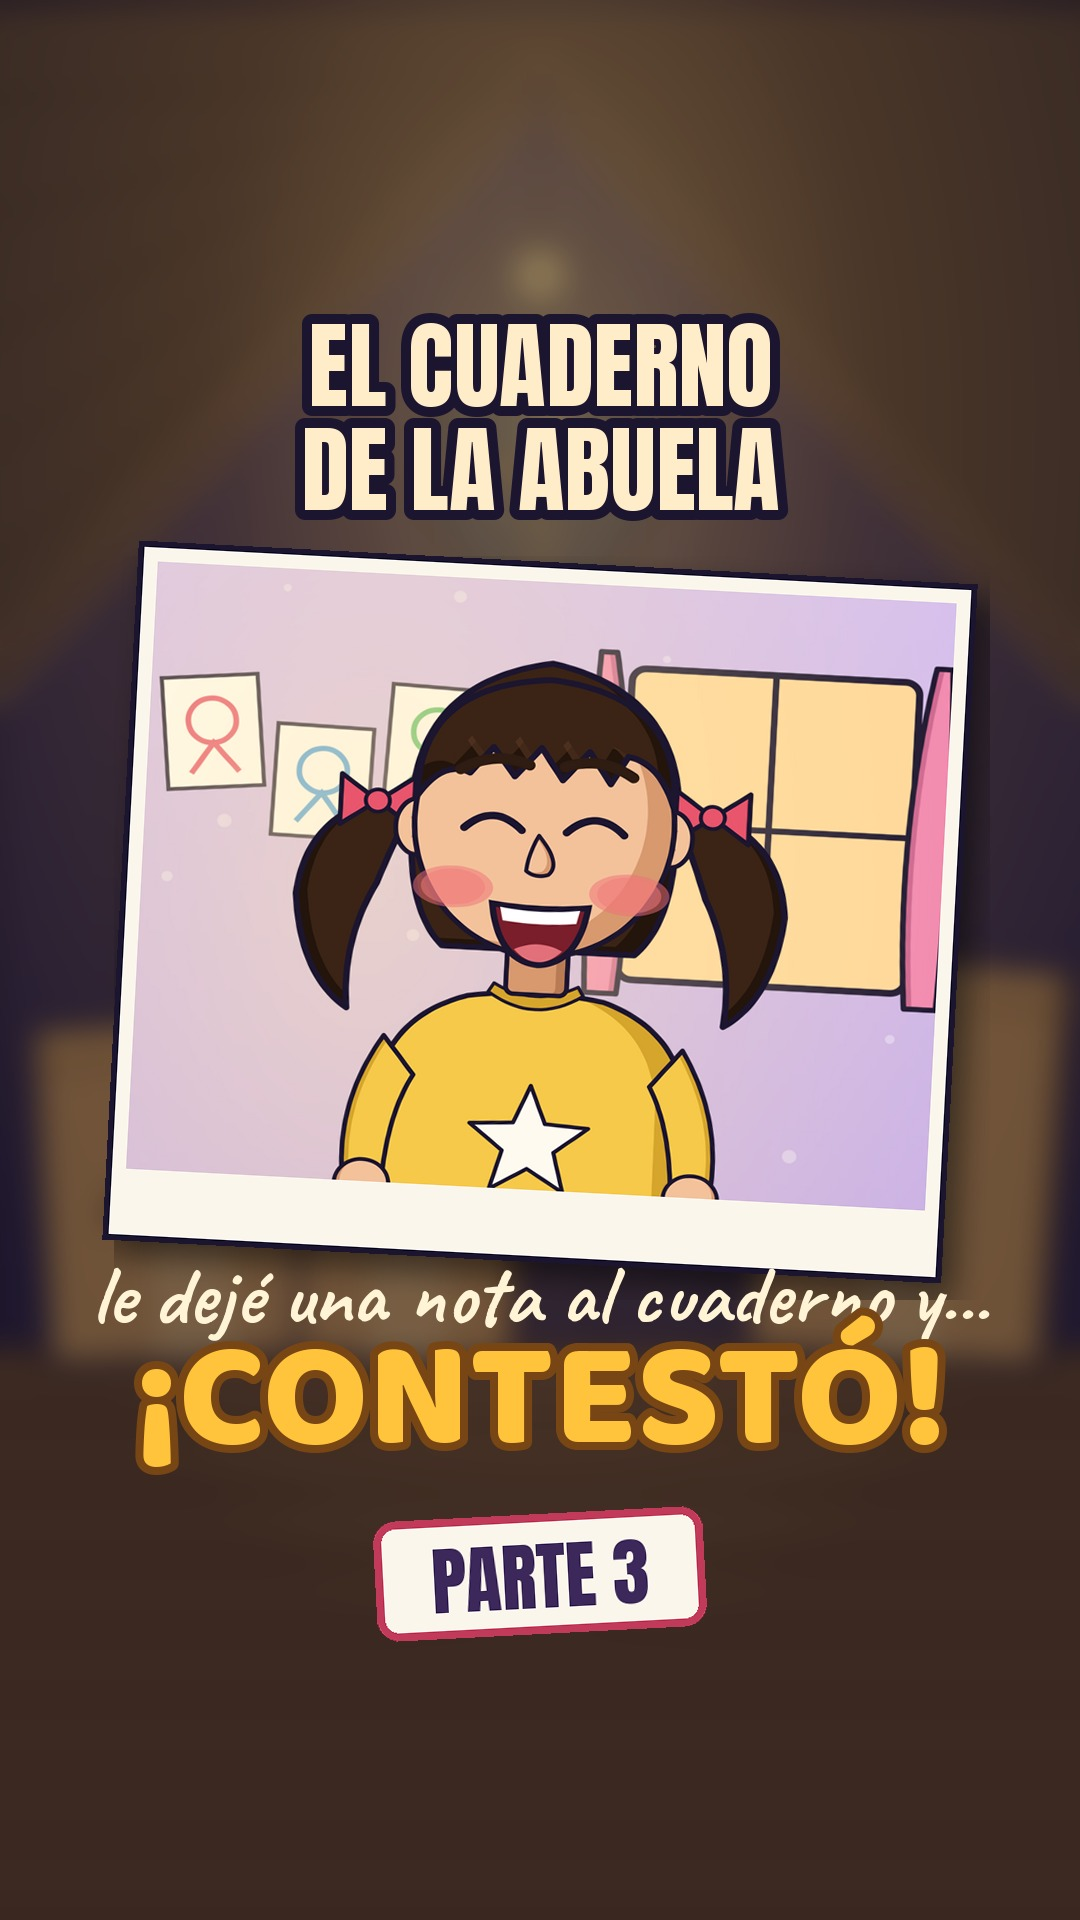
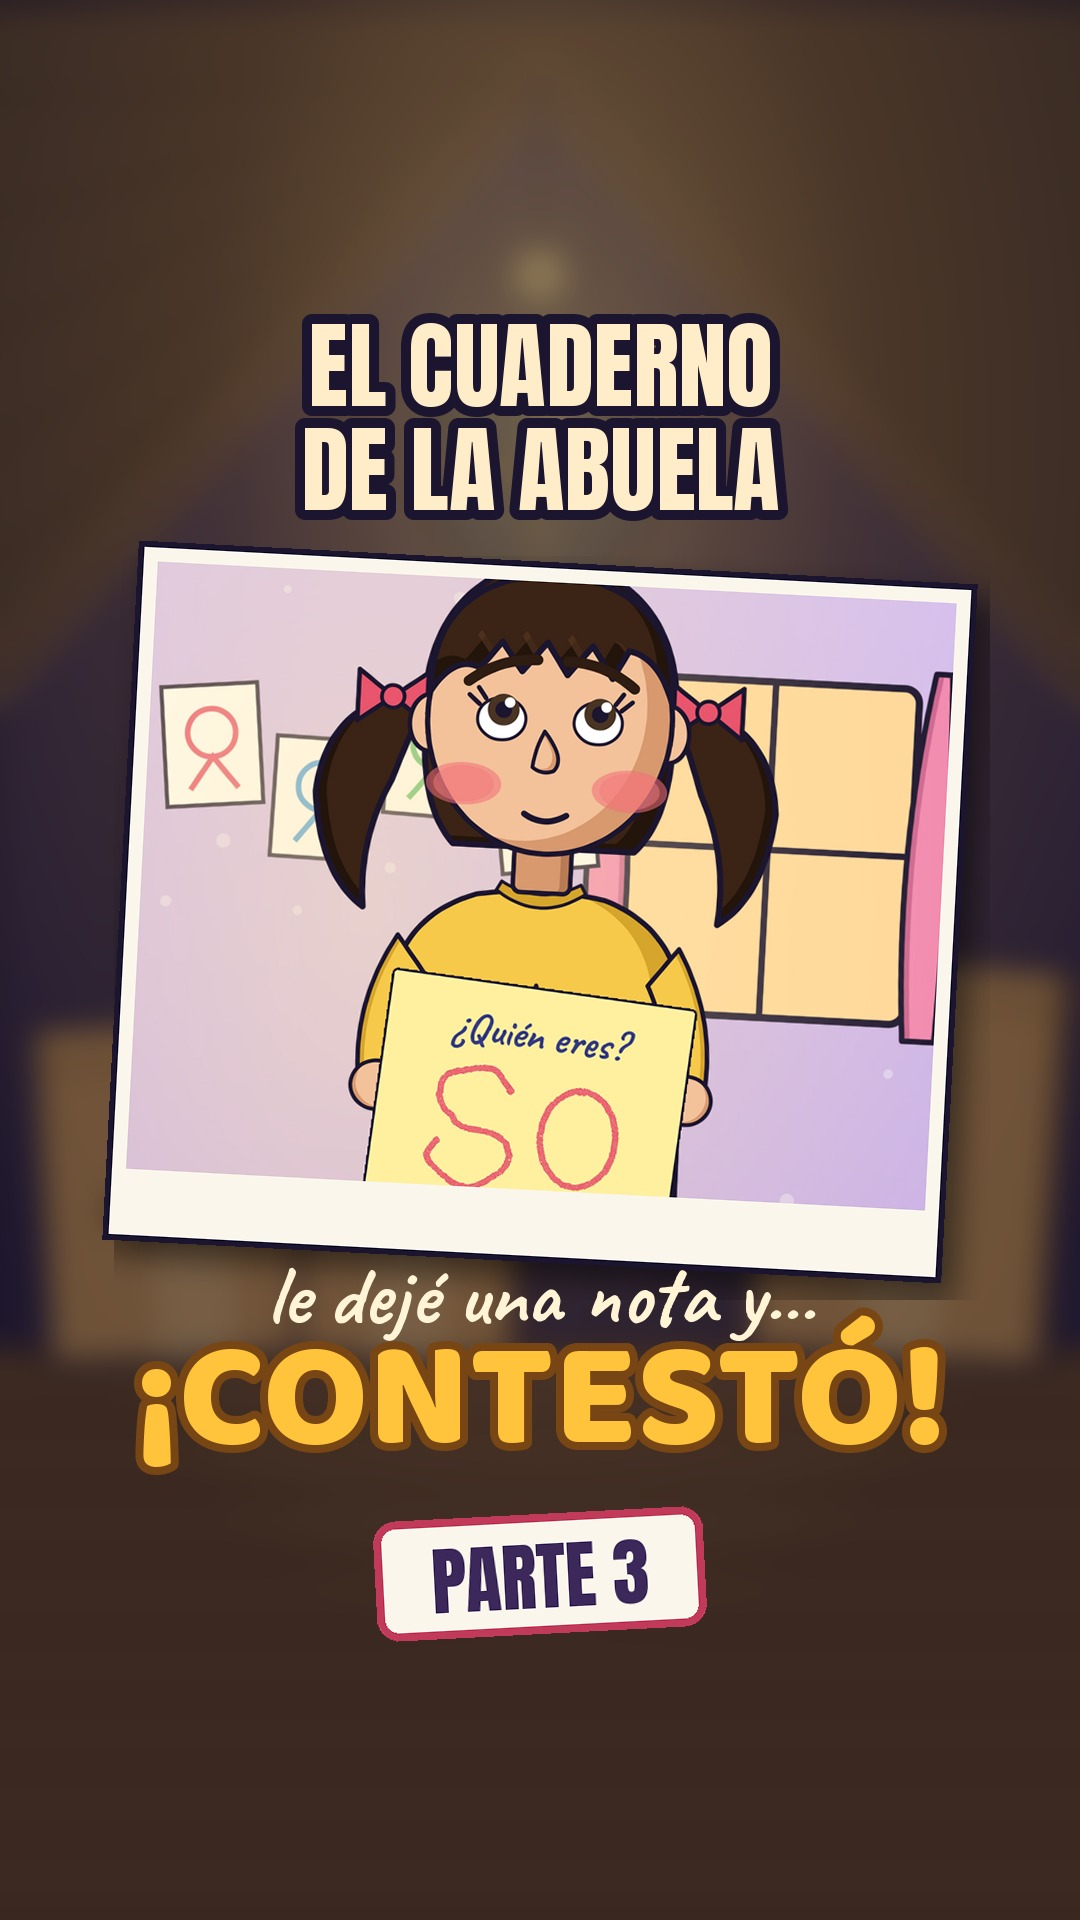
Cuaderno P3: portada final
Claude-Session: https://claude.ai/code/session_01NdJoAtX9uv82XdQwdw8yEq

Changed region(s): [[0.1528, 0.2812, 0.8861, 0.625], [0.0917, 0.6562, 0.825, 0.7188], [0.8556, 0.6562, 0.8861, 0.6875]]

diff --git a/cuaderno-pov/portada_p3.py b/cuaderno-pov/portada_p3.py
@@ -5,8 +5,8 @@ import render3 as V
 from PIL import Image
 def foto(llora=True):
     c = V.bgz("bg_cuarto_sofia", 1.0, 0, 1.0, 1.0, 4).copy()
-    V.sofia(c, "feliz", 540, 560, .85, 0.5)
-    n = V.nota_firma(.62, -5); c.alpha_composite(n, (int(540 - n.width / 2), 1010))
-    return c.crop((40, 150, 1040, 910 + 60))
+    V.sofia(c, "timido", 540, 400, .8, 0.5)
+    n = V.nota_firma(.55, -5); c.alpha_composite(n, (int(540 - n.width / 2), 640))
+    return c.crop((40, 150, 1040, 910))
 P.escena_foto = foto
-P.portada(3, "le dejé una nota al cuaderno y...", "¡CONTESTÓ!", os.path.join(V.HERE, "portada_cuaderno_parte3_9x16.jpg"))
+P.portada(3, "le dejé una nota y...", "¡CONTESTÓ!", os.path.join(V.HERE, "portada_cuaderno_parte3_9x16.jpg"))
